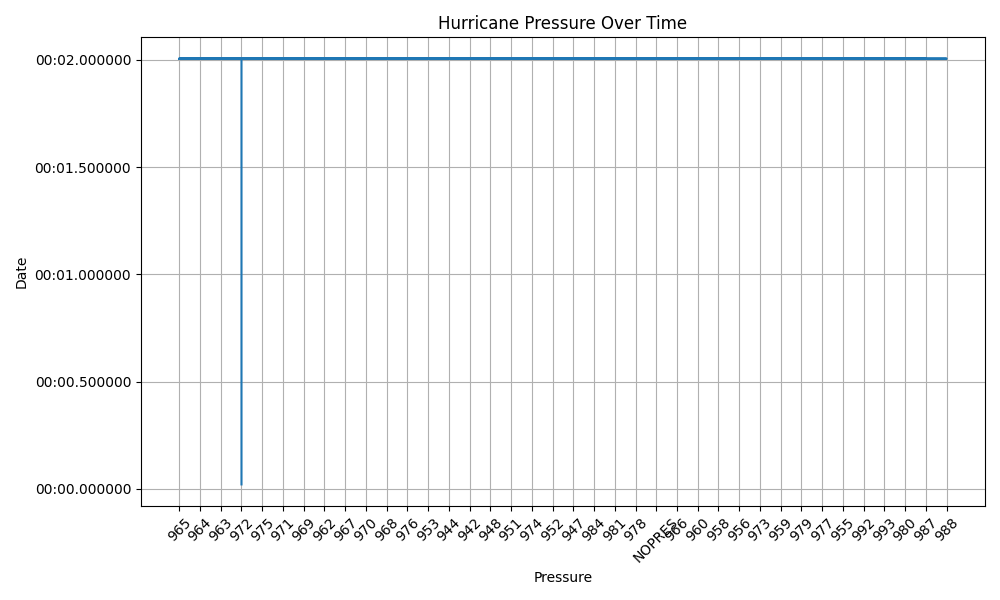
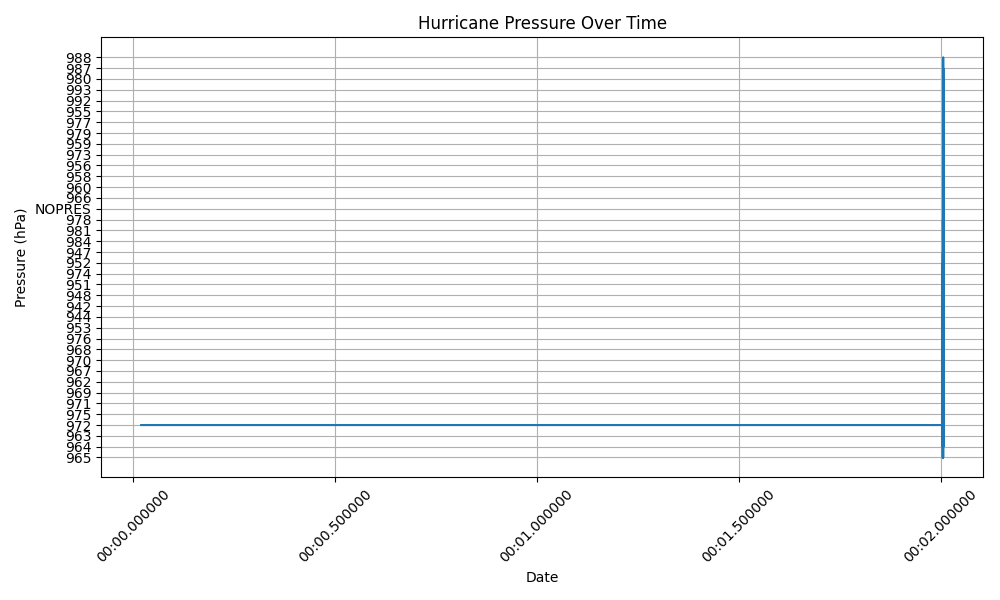
help help help

diff --git a/Backend/app.py b/Backend/app.py
@@ -32,9 +32,9 @@ def get_hurricane_data():
 
         # Plotting the data
         plt.figure(figsize=(10, 6))
-        plt.plot(df['Pressure'],df['Date'], label='Pressure')
-        plt.xlabel('Pressure')
-        plt.ylabel('Date')
+        plt.plot(df['Date'], df['Pressure'], label='Pressure')
+        plt.xlabel('Date')
+        plt.ylabel('Pressure (hPa)')
         plt.title('Hurricane Pressure Over Time')
         plt.grid(True)
         plt.xticks(rotation=45)
